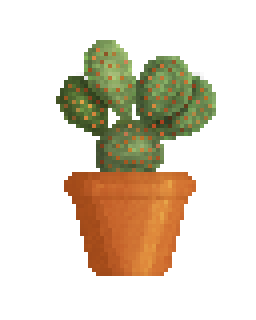
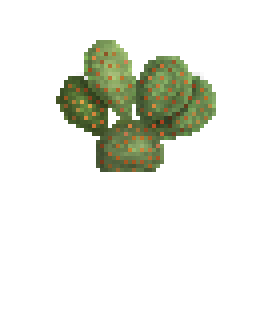
La till bilder och separerade plant och krukbilder
La till bilder och separerade plant och krukbilder

Changed region(s): [[0.25, 0.5312, 0.7812, 0.875]]

diff --git a/src/boundary/mainGUI.java b/src/boundary/mainGUI.java
@@ -23,6 +23,9 @@ public class mainGUI extends JFrame {
         setSize(width, height);
         setLocationRelativeTo(null);
         setResizable(false);
+        ImageIcon icon = new ImageIcon("images/icon.png");
+        setIconImage(icon.getImage());
+
 
         JPanel plantView = plantView();
         add(plantView, BorderLayout.WEST);
@@ -173,14 +176,14 @@ public class mainGUI extends JFrame {
         c.gridx = 0;
         c.gridy = 0;
         JLabel plantName = new JLabel("Bob");
-        plantName.setFont(new Font("Montserrat", Font.PLAIN, 32));
+        plantName.setFont(new Font("vgafix", Font.PLAIN, 26));
         nameView.add(plantName, c);
 
         c.weightx = 0;
         c.gridx = 0;
         c.gridy = 1;
         JLabel plantSpecies = new JLabel("Species: Elefantöra");
-        plantName.setFont(new Font("Montserrat", Font.PLAIN, 24));
+        plantSpecies.setFont(new Font("vgafix", Font.PLAIN, 16));
         nameView.add(plantSpecies, c);
 
         return nameView;
@@ -204,9 +207,13 @@ public class mainGUI extends JFrame {
         c.gridx = 0;
         c.gridy = 2;
         JLabel plantImage = new JLabel(elefantöra);
+        JLabel plantBackground = new JLabel(new ImageIcon("images/background/blue_gradient.png"));
         JLabel plantShadow = new JLabel(new ImageIcon("images/elefantora_shadow.png"));
+        JLabel plantPot = new JLabel(new ImageIcon("images/pots/default_pot.png"));
         plantView.add(plantImage, c);
+        plantView.add(plantPot, c);
         plantView.add(plantShadow, c);
+        plantView.add(plantBackground, c);
 
         c.fill = GridBagConstraints.HORIZONTAL;
         c.weightx = 0;

diff --git a/src/boundary/ChoosePlantFrame.java b/src/boundary/ChoosePlantFrame.java
@@ -23,8 +23,11 @@ public class ChoosePlantFrame extends JFrame{
         setTitle("Virtual Plant Widgets");
         setDefaultCloseOperation(EXIT_ON_CLOSE);
         setSize(width, height);
+        ImageIcon icon = new ImageIcon("images/icon.png");
+        setIconImage(icon.getImage());
         setLocationRelativeTo(null);
         setResizable(false);
+
         JScrollPane scroll = new JScrollPane(
                 ScrollPaneConstants.VERTICAL_SCROLLBAR_NEVER,
                 ScrollPaneConstants.HORIZONTAL_SCROLLBAR_ALWAYS

diff --git a/src/boundary/MainFrame.java b/src/boundary/MainFrame.java
@@ -1,10 +1,8 @@
 package boundary;
 
-import javax.swing.JFrame;
+import javax.swing.*;
 
-import javax.swing.GroupLayout;
 import javax.swing.GroupLayout.Alignment;
-import javax.swing.JButton;
 
 import java.awt.*;
 import java.awt.event.ActionListener;
@@ -22,6 +20,8 @@ public class MainFrame extends JFrame {
 		setDefaultCloseOperation(EXIT_ON_CLOSE);
 		setVisible(true);
 		setResizable(false);
+		ImageIcon icon = new ImageIcon("images/icon.png");
+		setIconImage(icon.getImage());
 		initialize();
 	}
 
